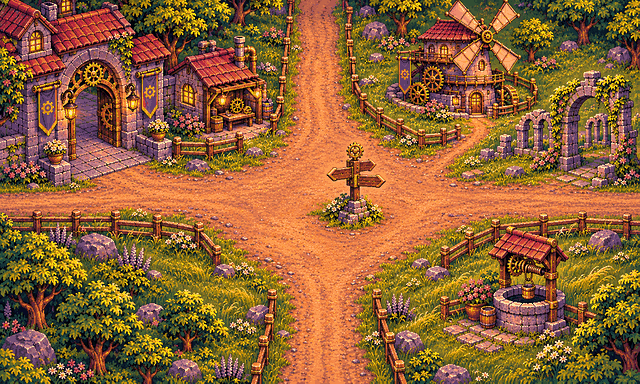
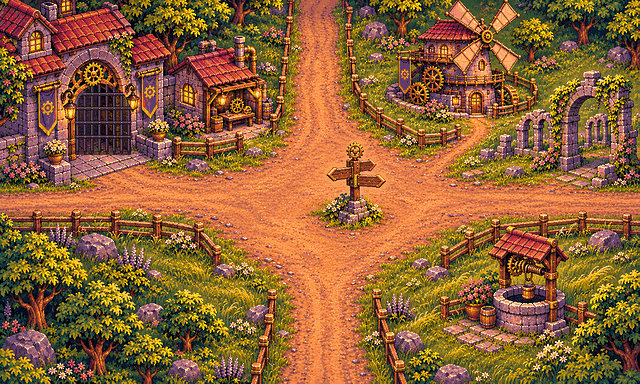
fix: square road reachable from both sides, city gates painted shut, turn back through a door at once
Story: design/gdd/salas-pintadas.md §3 rule 11, §5
Claude-Session: https://claude.ai/code/session_0129b5S34zGDmMBPb7tpAKcU

diff --git a/tools/art/gerar_salas.py b/tools/art/gerar_salas.py
@@ -12,6 +12,8 @@ Uso: python3 tools/art/gerar_salas.py (também roda em gerar_tudo.py)
 import json
 import os
 
+import numpy as np
+
 from PIL import Image, ImageDraw, ImageEnhance, ImageFilter
 
 import objetos_pintados
@@ -75,9 +77,47 @@ APAGAR = {
 }
 
 
+# Portões da cidade pintados abertos que o jogo mantém fechados: uma grade
+# de ferro baixada no vão (pedido do usuário, 2026-11-14: "se o jogo diz que
+# o portão está fechado, ele não deveria ficar aberto"). Vão em pixels da
+# referência: x0, x1 (batentes), topo do arco, início do arco, chão.
+GRADES = {
+    "r00_estrada": [(106, 207, 138, 188, 292)],
+    "r01_cruzamento": [(112, 197, 118, 162, 218)],
+}
+
+
+def grade(im, x0, x1, topo, arco, chao):
+    """Grade levadiça baixada: o vão escurece e barras de ferro o fecham."""
+    k = 4
+    w, h = (x1 - x0) * k, (chao - topo) * k
+    vao = Image.new("L", (w, h), 0)
+    d = ImageDraw.Draw(vao)
+    d.ellipse([0, 0, w - 1, (arco - topo) * 2 * k], fill=255)
+    d.rectangle([0, (arco - topo) * k, w - 1, h - 1], fill=255)
+    vao = vao.resize((x1 - x0, chao - topo), Image.Resampling.LANCZOS)
+    caixa = (x0, topo, x1, chao)
+    sombra = ImageEnhance.Brightness(im.crop(caixa)).enhance(0.45)
+    im.paste(sombra, (x0, topo), vao)
+    barras = Image.new("RGBA", (x1 - x0, chao - topo), (0, 0, 0, 0))
+    d = ImageDraw.Draw(barras)
+    ferro, brilho, escuro = (58, 50, 58, 255), (128, 112, 112, 255), (26, 20, 28, 255)
+    for x in range(4, x1 - x0 - 2, 11):  # barras de pé, com ponta embaixo
+        d.rectangle([x - 2, 0, x + 2, chao - topo - 6], fill=ferro, outline=escuro)
+        d.line([x - 1, 0, x - 1, chao - topo - 7], fill=brilho)
+        d.polygon([(x - 2, chao - topo - 6), (x + 2, chao - topo - 6), (x, chao - topo - 1)], fill=ferro, outline=escuro)
+    for y in range(14, chao - topo - 10, 20):  # travessas
+        d.rectangle([0, y - 2, x1 - x0, y + 2], fill=ferro, outline=escuro)
+        d.line([1, y - 1, x1 - x0 - 2, y - 1], fill=brilho)
+        for x in range(4, x1 - x0 - 2, 11):  # rebites
+            d.point((x, y), fill=(196, 160, 96, 255))
+    a = np.asarray(barras).copy()
+    a[..., 3] = np.minimum(a[..., 3], np.asarray(vao))
+    im.paste(Image.fromarray(a, "RGBA"), (x0, topo), Image.fromarray(a[..., 3], "L"))
+
+
 def apaga_lampada(im, caixa):
     """Tira o brilho da lâmpada: o vidro aceso vira vidro escuro e frio."""
-    import numpy as np
     x0, y0, x1, y1 = caixa
     a = np.asarray(im.crop(caixa)).astype(float)
     lum = a.mean(axis=2)
@@ -105,6 +145,8 @@ def fundo(room_id, source):
     im = Image.open(os.path.join(REFS, source)).convert("RGB")
     for porta in PORTAS.get(room_id, []):
         copia_porta(im, **porta)
+    for vao in GRADES.get(room_id, []):
+        grade(im, *vao)
     for caixa in APAGAR.get(room_id, []):
         apaga_lampada(im, caixa)
     im = im.resize(tamanho(room_id), Image.Resampling.LANCZOS)

diff --git a/design/gdd/salas-pintadas.md b/design/gdd/salas-pintadas.md
@@ -58,7 +58,10 @@ ela, falo com o mercador na barraca e corto os arbustos."
    (`APAGAR` em `gerar_salas.py`); a tocha tem `"painted": true` e
    `"flame_at"` (posição do vidro a partir do centro da célula) e o jogo só
    desenha a chama e a luz quando acesa.
-11. Uma parede rachada pintada (`"cracked": true`) não ganha barreira: a
+11. O que o aviso diz, a pintura mostra: um portão que o jogo diz fechado é
+   pintado fechado (`GRADES` em `gerar_salas.py` baixa uma grade de ferro
+   no vão do portão da cidade na estrada e no cruzamento).
+11b. Uma parede rachada pintada (`"cracked": true`) não ganha barreira: a
    rachadura já está na imagem. Depois da explosão o jogo abre um buraco
    escuro no lugar.
 12. Um salvamento feito antes de a sala ser redesenhada pode estar numa
@@ -199,6 +202,10 @@ Todas as salas da torre têm 40 × 23 células. Ordem da subida:
 - Porta ou entidade (sem `painted`) numa parede: o mesmo teste falha.
   Placas (`plate`) e avisos (`examine`) são a exceção: ficam na parede de
   propósito.
+- Voltar pela porta logo depois de passar por ela funciona: depois de
+  chegar, basta parar ou dar um passo para dentro e andar de volta. Segurar
+  o mesmo sentido em que chegou (porta do mesmo lado nas duas salas) não
+  faz voltar.
 - Aviso examinado: o texto aparece por 3,5 s e quebra em duas linhas se
   for longo.
 - Segunda saída na parede da frente que leva a uma porta de outro lado

diff --git a/production/qa/smoke-2026-11-11-praca-pintada.md b/production/qa/smoke-2026-11-11-praca-pintada.md
@@ -142,3 +142,15 @@ Spec: `design/gdd/salas-pintadas.md`. Build: teste20 (inclui teste19).
 - Evidência: `production/qa/evidence/ambiente/01_oficina.png` a
   `10_poco_buraco_aberto.png`, `04b_cruzamento_portao_aviso.png`,
   `11_torre_salas.png`.
+
+## 2026-11-14: correções do teste27 (teste28)
+
+- Praça: a frente do chafariz é calçamento livre; a estrada do norte se
+  alcança pelos dois lados.
+- Portão da cidade (estrada e cruzamento) pintado com a grade baixada,
+  como o aviso diz.
+- Voltar pela porta logo depois de chegar funciona (teste novo
+  `test_turning_straight_back_through_the_door_just_used`).
+- Suíte completa: 317 de 317.
+- Evidência: `production/qa/evidence/ambiente/12_praca_estrada_direita.png`,
+  `13_estrada_portao_grade.png`, `14_cruzamento_portao_grade.png`.
